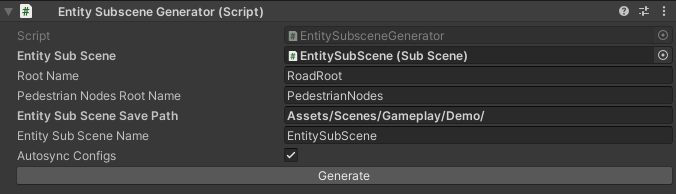
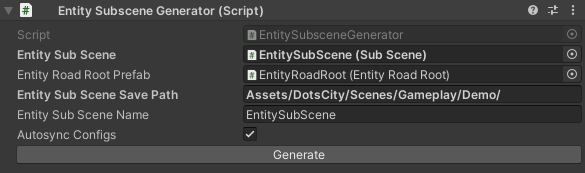
up

diff --git a/docs/source/roadInstallation.rst b/docs/source/roadInstallation.rst
@@ -36,8 +36,6 @@ From version `DOTS 1.0 <https://docs.unity3d.com/Packages/com.unity.entities@1.0
 	
 Steps:
 	#. Select `Hub` on the scene.
-	#. Enter `Root name` or use default name.
-	#. Enter `Pedestrian nodes root name` or use default name.
 	#. Select `Entity sub scene path` the path to create a `subscene`.
 	#. Enter `Entity subscene name` or use default name.
 	#. On/off autosync configs (before migrating the configs to the `subscene`, they will be synchronized with the configs that are in the `Hub`).
